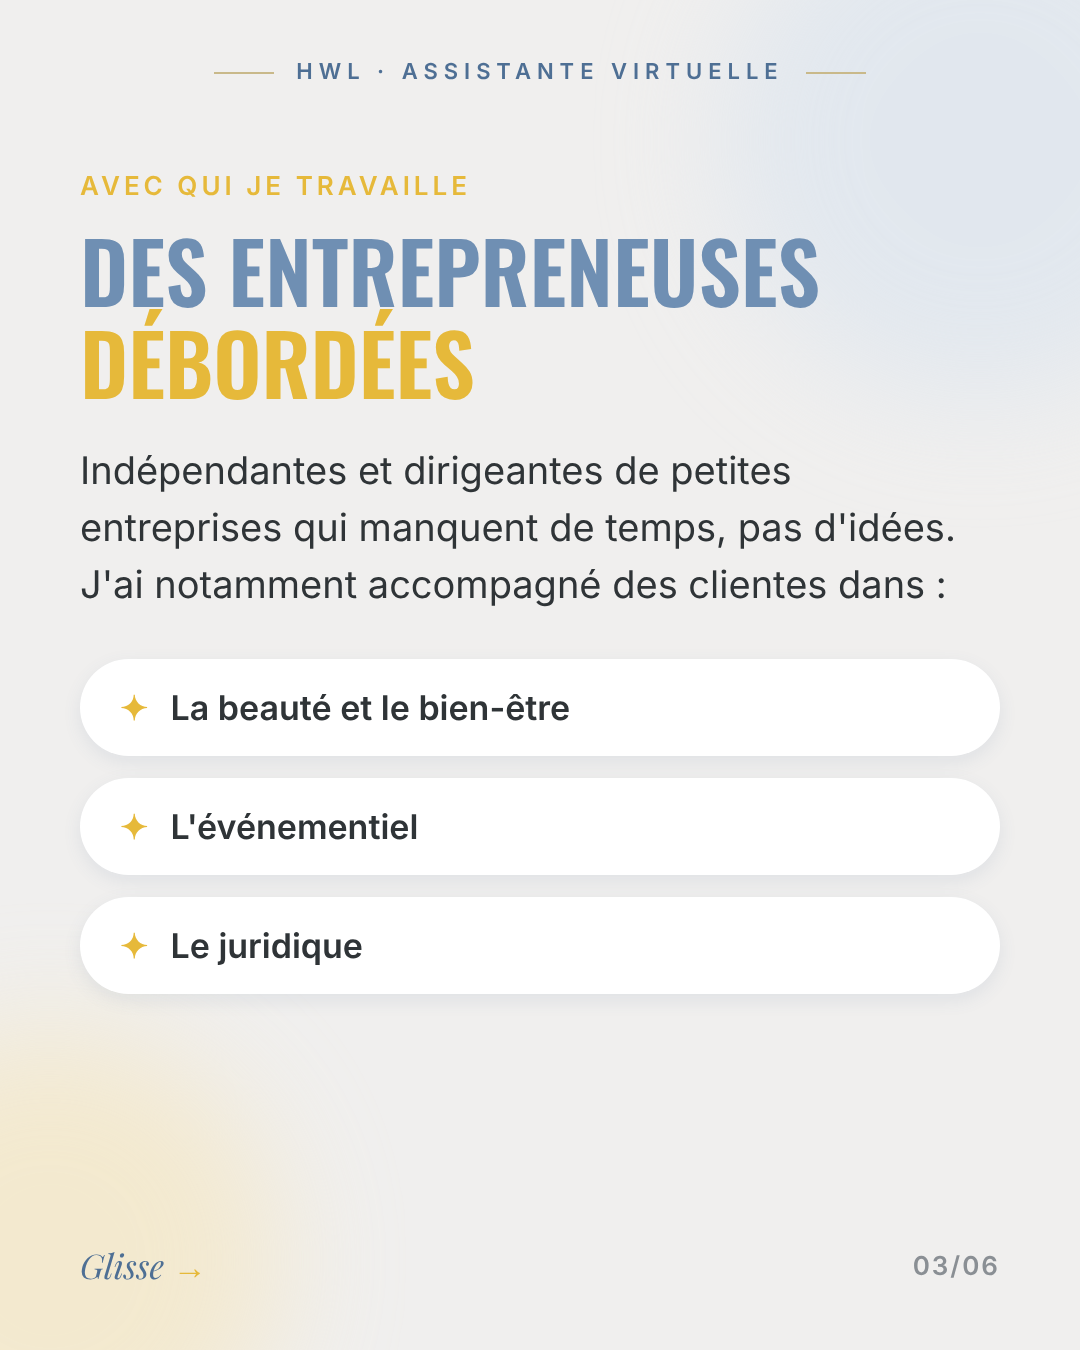
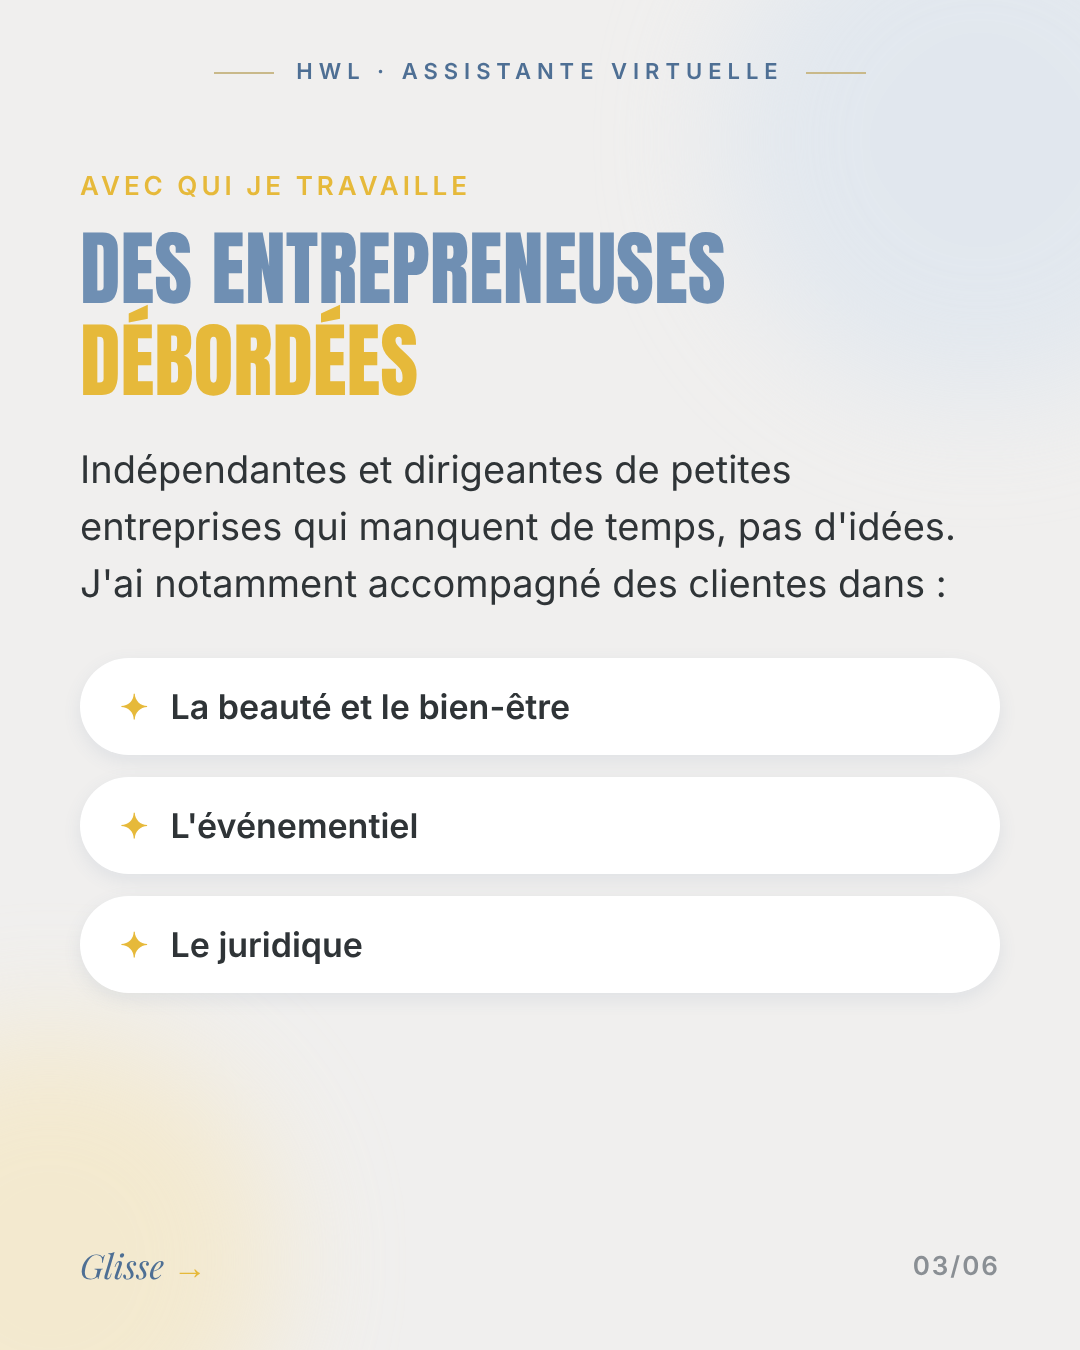
HWL : titres en Anton (épingles + générateur)
Claude-Session: https://claude.ai/code/session_01GjorPA3wJ69voC96t1xUmh

diff --git a/hwl/outils/carrousels.py b/hwl/outils/carrousels.py
@@ -10,6 +10,8 @@ def font_face(fam, path, weight, style="normal"):
 
 CSS = "".join([
     font_face("Oswald", "oswald/files/oswald-latin-600-normal.woff2", 600),
+    font_face("Anton", "anton/files/anton-latin-400-normal.woff2", 600),
+    font_face("Anton", "anton/files/anton-latin-400-normal.woff2", 400),
     font_face("Oswald", "oswald/files/oswald-latin-500-normal.woff2", 500),
     font_face("Playfair", "playfair-display/files/playfair-display-latin-400-italic.woff2", 400, "italic"),
     font_face("Playfair", "playfair-display/files/playfair-display-latin-600-italic.woff2", 600, "italic"),
@@ -24,26 +26,26 @@ body{width:1080px;height:1350px;background:#F0EFEE;font-family:Inter;color:#2F34
 .top:before,.top:after{content:"";display:inline-block;width:60px;height:2px;background:#C9B98A;vertical-align:middle;margin:0 22px}
 .wrap{position:absolute;left:80px;right:80px;top:170px}
 .kicker{font:600 26px Inter;letter-spacing:4px;color:#E6B93A;text-transform:uppercase;margin-bottom:22px}
-h1{font:600 104px/1.1 Oswald;color:#6F8FB3;text-transform:uppercase;letter-spacing:.5px}
-h2{font:600 84px/1.1 Oswald;color:#6F8FB3;text-transform:uppercase}
+h1{font:600 100px/1.12 Anton;color:#6F8FB3;text-transform:uppercase;letter-spacing:.5px}
+h2{font:600 82px/1.12 Anton;color:#6F8FB3;text-transform:uppercase}
 h1 em,h2 em{font-style:normal;color:#E6B93A}
 p.body{font:400 38px/1.5 Inter;margin-top:34px;color:#2F3437}
 p.body b{font-weight:700}
-.big{font:600 260px/1 Oswald;color:#E6B93A;margin-top:30px}
+.big{font:600 250px/1 Anton;color:#E6B93A;margin-top:30px}
 .src{position:absolute;left:80px;right:80px;bottom:150px;font:400 24px/1.4 Inter;color:#8A8F94}
 .cards{margin-top:46px;display:flex;flex-direction:column;gap:22px}
 .card{background:#fff;border-radius:60px;padding:28px 40px;font:600 34px Inter;box-shadow:0 6px 18px rgba(78,111,148,.10);display:flex;align-items:center;gap:22px}
 .card .s{color:#E6B93A;font-size:34px}
 .card.x .s{color:#8A8F94}
 .card.x{color:#8A8F94}
-.num{font:600 40px Oswald;color:#fff;background:#6F8FB3;border-radius:50%;width:62px;height:62px;display:flex;align-items:center;justify-content:center;flex:none}
+.num{font:600 38px Anton;color:#fff;background:#6F8FB3;border-radius:50%;width:62px;height:62px;display:flex;align-items:center;justify-content:center;flex:none}
 .bottom{position:absolute;bottom:62px;left:80px;right:80px;display:flex;justify-content:space-between;align-items:center}
 .glisse{font:italic 400 34px Playfair;color:#4E6F94}
 .glisse span{color:#E6B93A;font-style:normal;font-family:Inter;font-weight:700}
 .pg{font:600 26px Inter;letter-spacing:2px;color:#8A8F94}
 .ill{position:absolute;left:0;right:0;bottom:200px;display:flex;justify-content:center}
 .center{text-align:center;left:80px;right:80px}
-.btn{display:inline-flex;align-items:center;gap:22px;background:#E6B93A;color:#fff;font:600 58px Oswald;padding:34px 64px;border-radius:26px;box-shadow:0 10px 26px rgba(230,185,58,.35);margin-top:70px;text-transform:uppercase}
+.btn{display:inline-flex;align-items:center;gap:22px;background:#E6B93A;color:#fff;font:600 56px Anton;padding:34px 64px;border-radius:26px;box-shadow:0 10px 26px rgba(230,185,58,.35);margin-top:70px;text-transform:uppercase}
 .script{font:italic 400 44px Playfair;color:#4E6F94;margin-top:36px}
 .handle{position:absolute;bottom:150px;left:0;right:0;text-align:center;font:400 26px Inter;color:#8A8F94}
 .hl{background:linear-gradient(transparent 58%,#F3DC8E 58%);padding:0 4px}
@@ -58,10 +60,10 @@ ILL = {
 "agenda": """<svg width="560" height="560" viewBox="0 0 200 200"><rect x="22" y="32" width="156" height="150" rx="16" fill="#fff" stroke="#6F8FB3" stroke-width="6"/><path d="M22 48 a16 16 0 0 1 16 -16 H162 a16 16 0 0 1 16 16 V68 H22Z" fill="#6F8FB3"/><rect x="54" y="16" width="10" height="30" rx="5" fill="#4E6F94"/><rect x="136" y="16" width="10" height="30" rx="5" fill="#4E6F94"/><g fill="#F0EFEE"><rect x="36" y="80" width="24" height="20" rx="5"/><rect x="66" y="80" width="24" height="20" rx="5"/><rect x="96" y="80" width="24" height="20" rx="5"/><rect x="126" y="80" width="24" height="20" rx="5"/><rect x="36" y="108" width="24" height="20" rx="5"/><rect x="96" y="108" width="24" height="20" rx="5"/><rect x="126" y="108" width="24" height="20" rx="5"/><rect x="36" y="136" width="24" height="20" rx="5"/><rect x="66" y="136" width="24" height="20" rx="5"/><rect x="126" y="136" width="24" height="20" rx="5"/></g><rect x="66" y="108" width="24" height="20" rx="5" fill="#F3DC8E"/><path d="M71 118 l5 5 l10 -10" stroke="#E6B93A" stroke-width="4" fill="none" stroke-linecap="round" stroke-linejoin="round"/><rect x="96" y="136" width="24" height="20" rx="5" fill="#DCE5EF"/><circle cx="168" cy="170" r="24" fill="#E6B93A"/><path d="M168 158 v13 l9 6" stroke="#fff" stroke-width="5" fill="none" stroke-linecap="round"/></svg>""",
 "facture": """<svg width="420" height="420" viewBox="0 0 200 200"><rect x="45" y="20" width="110" height="150" rx="10" fill="#fff" stroke="#6F8FB3" stroke-width="6"/><rect x="62" y="44" width="56" height="10" rx="4" fill="#DCE5EF"/><rect x="62" y="66" width="76" height="8" rx="4" fill="#DCE5EF"/><rect x="62" y="82" width="76" height="8" rx="4" fill="#DCE5EF"/><rect x="62" y="98" width="50" height="8" rx="4" fill="#DCE5EF"/><rect x="62" y="128" width="76" height="20" rx="6" fill="#F3DC8E"/><circle cx="150" cy="150" r="30" fill="#E6B93A"/><path d="M137 150 l9 9 l18 -19" stroke="#fff" stroke-width="7" fill="none" stroke-linecap="round" stroke-linejoin="round"/></svg>""",
 "inbox": """<svg width="420" height="360" viewBox="0 0 200 170"><path d="M30 70 L60 25 H140 L170 70 V140 a10 10 0 0 1 -10 10 H40 a10 10 0 0 1 -10 -10Z" fill="#fff" stroke="#6F8FB3" stroke-width="6" stroke-linejoin="round"/><path d="M30 70 H70 a30 22 0 0 0 60 0 H170" fill="none" stroke="#6F8FB3" stroke-width="6"/><rect x="80" y="8" width="40" height="52" rx="5" fill="#F3DC8E" stroke="#E6B93A" stroke-width="4"/><path d="M100 30 v28 m-12 -12 l12 12 l12 -12" stroke="#4E6F94" stroke-width="5" fill="none" stroke-linecap="round"/></svg>""",
-"calendrier": """<svg width="400" height="380" viewBox="0 0 200 190"><rect x="25" y="35" width="150" height="140" rx="14" fill="#fff" stroke="#6F8FB3" stroke-width="6"/><rect x="25" y="35" width="150" height="38" rx="14" fill="#6F8FB3"/><rect x="25" y="58" width="150" height="15" fill="#6F8FB3"/><rect x="58" y="20" width="10" height="30" rx="5" fill="#4E6F94"/><rect x="132" y="20" width="10" height="30" rx="5" fill="#4E6F94"/><text x="100" y="140" text-anchor="middle" font-family="Oswald" font-weight="600" font-size="62" fill="#E6B93A">1/09</text><text x="100" y="62" text-anchor="middle" font-family="Oswald" font-weight="600" font-size="20" fill="#fff" letter-spacing="3">2027</text></svg>""",
-"pdf": """<svg width="380" height="380" viewBox="0 0 200 200"><rect x="50" y="25" width="100" height="135" rx="10" fill="#fff" stroke="#8A8F94" stroke-width="6"/><text x="100" y="105" text-anchor="middle" font-family="Oswald" font-weight="600" font-size="40" fill="#8A8F94">PDF</text><path d="M35 175 L165 30" stroke="#E6B93A" stroke-width="12" stroke-linecap="round"/></svg>""",
+"calendrier": """<svg width="400" height="380" viewBox="0 0 200 190"><rect x="25" y="35" width="150" height="140" rx="14" fill="#fff" stroke="#6F8FB3" stroke-width="6"/><rect x="25" y="35" width="150" height="38" rx="14" fill="#6F8FB3"/><rect x="25" y="58" width="150" height="15" fill="#6F8FB3"/><rect x="58" y="20" width="10" height="30" rx="5" fill="#4E6F94"/><rect x="132" y="20" width="10" height="30" rx="5" fill="#4E6F94"/><text x="100" y="140" text-anchor="middle" font-family="Anton" font-weight="600" font-size="62" fill="#E6B93A">1/09</text><text x="100" y="62" text-anchor="middle" font-family="Anton" font-weight="600" font-size="20" fill="#fff" letter-spacing="3">2027</text></svg>""",
+"pdf": """<svg width="380" height="380" viewBox="0 0 200 200"><rect x="50" y="25" width="100" height="135" rx="10" fill="#fff" stroke="#8A8F94" stroke-width="6"/><text x="100" y="105" text-anchor="middle" font-family="Anton" font-weight="600" font-size="40" fill="#8A8F94">PDF</text><path d="M35 175 L165 30" stroke="#E6B93A" stroke-width="12" stroke-linecap="round"/></svg>""",
 "horloge": """<svg width="400" height="400" viewBox="0 0 200 200"><circle cx="100" cy="105" r="72" fill="#fff" stroke="#6F8FB3" stroke-width="7"/><path d="M100 105 V62 M100 105 L132 122" stroke="#4E6F94" stroke-width="8" stroke-linecap="round"/><circle cx="100" cy="105" r="7" fill="#E6B93A"/><rect x="88" y="18" width="24" height="14" rx="5" fill="#6F8FB3"/><path d="M28 60 l18 12 M172 60 l-18 12" stroke="#E6B93A" stroke-width="7" stroke-linecap="round"/></svg>""",
-"calcul": """<svg width="360" height="400" viewBox="0 0 180 200"><rect x="30" y="15" width="120" height="170" rx="16" fill="#fff" stroke="#6F8FB3" stroke-width="6"/><rect x="46" y="32" width="88" height="38" rx="6" fill="#DCE5EF"/><text x="126" y="60" text-anchor="end" font-family="Oswald" font-weight="600" font-size="24" fill="#4E6F94">1 200 €</text><g fill="#F0EFEE" stroke="#6F8FB3" stroke-width="3"><rect x="46" y="84" width="24" height="20" rx="5"/><rect x="78" y="84" width="24" height="20" rx="5"/><rect x="46" y="112" width="24" height="20" rx="5"/><rect x="78" y="112" width="24" height="20" rx="5"/><rect x="46" y="140" width="24" height="20" rx="5"/><rect x="78" y="140" width="24" height="20" rx="5"/></g><rect x="110" y="84" width="24" height="76" rx="5" fill="#E6B93A"/></svg>""",
+"calcul": """<svg width="360" height="400" viewBox="0 0 180 200"><rect x="30" y="15" width="120" height="170" rx="16" fill="#fff" stroke="#6F8FB3" stroke-width="6"/><rect x="46" y="32" width="88" height="38" rx="6" fill="#DCE5EF"/><text x="126" y="60" text-anchor="end" font-family="Anton" font-weight="600" font-size="24" fill="#4E6F94">1 200 €</text><g fill="#F0EFEE" stroke="#6F8FB3" stroke-width="3"><rect x="46" y="84" width="24" height="20" rx="5"/><rect x="78" y="84" width="24" height="20" rx="5"/><rect x="46" y="112" width="24" height="20" rx="5"/><rect x="78" y="112" width="24" height="20" rx="5"/><rect x="46" y="140" width="24" height="20" rx="5"/><rect x="78" y="140" width="24" height="20" rx="5"/></g><rect x="110" y="84" width="24" height="76" rx="5" fill="#E6B93A"/></svg>""",
 "robot": """<svg width="400" height="380" viewBox="0 0 200 190"><line x1="100" y1="20" x2="100" y2="45" stroke="#6F8FB3" stroke-width="6"/><circle cx="100" cy="16" r="9" fill="#E6B93A"/><rect x="40" y="45" width="120" height="95" rx="24" fill="#fff" stroke="#6F8FB3" stroke-width="6"/><circle cx="75" cy="88" r="12" fill="#6F8FB3"/><circle cx="125" cy="88" r="12" fill="#6F8FB3"/><path d="M78 115 Q100 128 122 115" stroke="#4E6F94" stroke-width="6" fill="none" stroke-linecap="round"/><rect x="60" y="148" width="80" height="26" rx="10" fill="#DCE5EF"/></svg>""",
 "coeur": """<svg width="380" height="360" viewBox="0 0 200 190"><path d="M100 170 C40 125 20 95 20 65 C20 40 40 22 63 22 C80 22 93 32 100 45 C107 32 120 22 137 22 C160 22 180 40 180 65 C180 95 160 125 100 170Z" fill="#fff" stroke="#6F8FB3" stroke-width="7"/><path d="M70 85 l20 20 l40 -40" stroke="#E6B93A" stroke-width="10" fill="none" stroke-linecap="round" stroke-linejoin="round"/></svg>""",
 }
